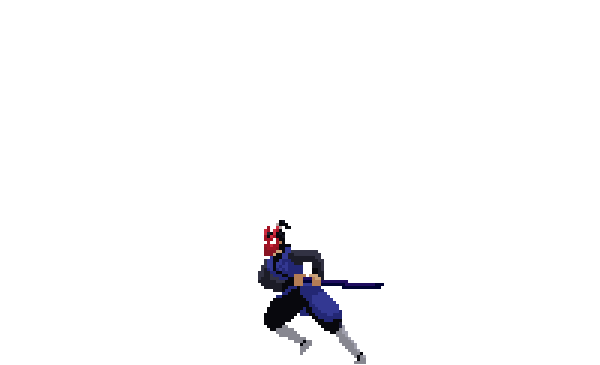
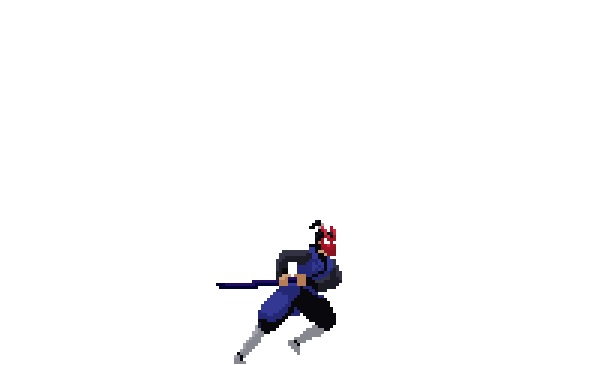
Added Akaza and refactored

Changed region(s): [[0.36, 0.6027, 0.63, 1.0]]

diff --git a/cannvas.html b/cannvas.html
@@ -74,6 +74,7 @@ body{
     font-weight: 900;
     display: none;
 }
+img,
 .samuraiIdle,
 .knightIdle,
 .kenjiIdle,
@@ -448,13 +449,34 @@ body{
 
 <img  class="akazaIdle" src="./characters/akaza/idle/idle.png">
 
+<img  class="akazaAttack"src="./characters/akaza/attack/attack_0.png">
+<img  class="akazaAttack"src="./characters/akaza/attack/attack_1.png">
+<img  class="akazaAttack"src="./characters/akaza/attack/attack_2.png">
+<img  class="akazaAttack"src="./characters/akaza/attack/attack_3.png">
 
+<img  class="akazaRun" src="./characters/akaza/run/run_0.png">
+<img  class="akazaRun" src="./characters/akaza/run/run_1.png">
+<img  class="akazaRun" src="./characters/akaza/run/run_2.png">
+<img  class="akazaRun" src="./characters/akaza/run/run_3.png">
+<img  class="akazaRun" src="./characters/akaza/run/run_4.png">
+<img  class="akazaRun" src="./characters/akaza/run/run_5.png">
+<img  class="akazaRun" src="./characters/akaza/run/run_6.png">
+<img  class="akazaRun" src="./characters/akaza/run/run_7.png">
 
+<img  class="akazaFall" src="./characters/akaza/fall/fall.png">
 
+<img  class="akazaTakeHit" src="./characters/akaza/takeHit/takeHit_0.png">
+<img  class="akazaTakeHit" src="./characters/akaza/takeHit/takeHit_1.png">
+<img  class="akazaTakeHit" src="./characters/akaza/takeHit/takeHit_2.png">
 
+<img  class="akazaDeath" src="./characters/akaza/death/death_0.png">
+<img  class="akazaDeath" src="./characters/akaza/death/death_1.png">
+<img  class="akazaDeath" src="./characters/akaza/death/death_2.png">
+<img  class="akazaDeath" src="./characters/akaza/death/death_3.png">
+<img  class="akazaDeath" src="./characters/akaza/death/death_4.png">
+<img  class="akazaDeath" src="./characters/akaza/death/death_5.png">
 
-
-
+<!-- /////////////////////////////////////////////////////////////// -->
 
 <h2 id="indicator"></h2>
 <h2 id="resultIndicator">Player Won</h2>
@@ -475,8 +497,8 @@ body{
     let borderRight = window.innerWidth;
     let chosenCharacter = "samurai";
         // chosenCharacter = "knight";
-    let chosenEnemy = "kenji";
-        // chosenEnemy = "akaza";
+    // let chosenEnemy = "kenji";
+        chosenEnemy = "akaza";
         // chosenEnemy = "samurai";
         console.log('chosenEnemy: ', chosenEnemy);
 
@@ -804,7 +826,7 @@ body{
             console.log("LOADED ENEMY samurai");
             
         }
-        else if(chosenCharacter === "akaza"){
+        else if(chosenEnemy === "akaza"){
             eIdle = document.querySelector(".akazaIdle");
             eAttackF =  document.querySelectorAll(".akazaAttack");
             eFallF = document.querySelector(".akazaFall");
